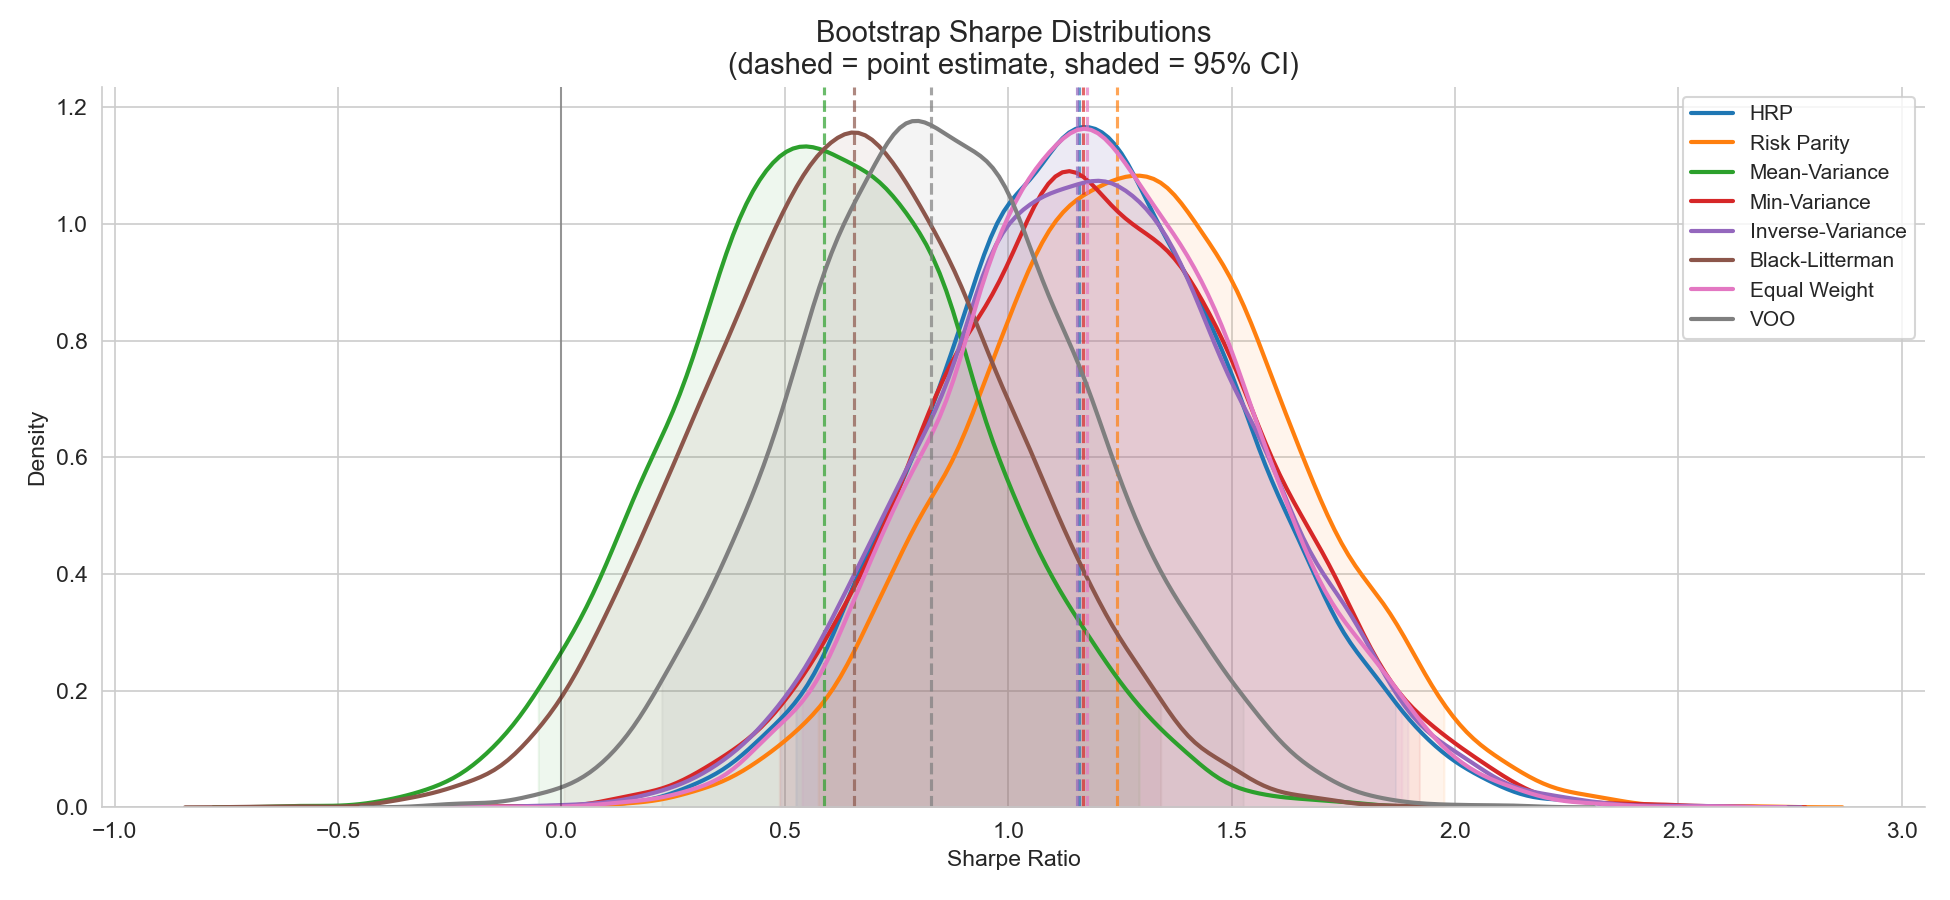
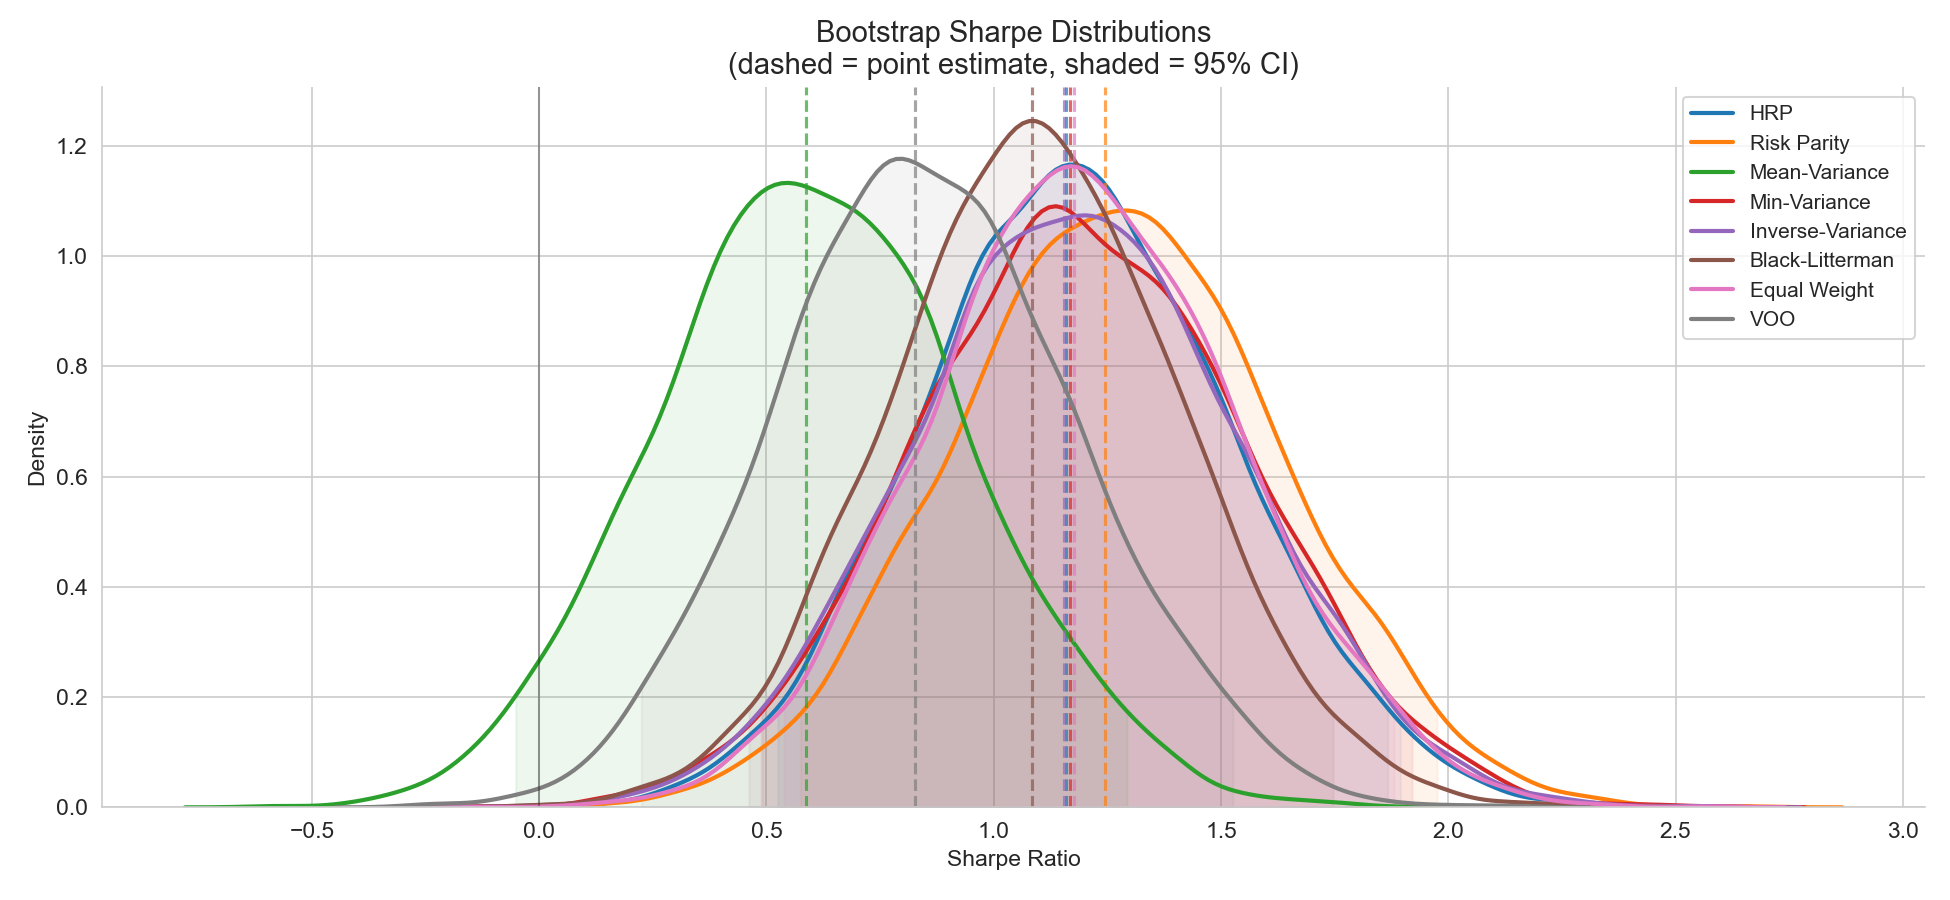
Added additional views to src/allocator/BL, modified notebooks/...w_BL.ipynb, modified readme.md

diff --git a/src/allocators/black_litterman.py b/src/allocators/black_litterman.py
@@ -40,7 +40,7 @@ def black_litterman_portfolio(
 
     # Get views
     closes = (1 + returns).cumprod()
-    Q_view_vector, P_view_matrix = get_views(closes=closes, view_lookback=view_lookback, K=K)
+    Q_view_vector, P_view_matrix = get_combined_views(closes=closes, returns=returns, view_lookback=view_lookback, K=K)
 
     # Get posteriors
     cov_BL, exp_returns_BL = BL_posterior(
@@ -140,7 +140,11 @@ def views_variance_easy(
 # Get views
 # # # # # # # #
 
-def get_views(closes: pd.DataFrame, view_lookback: int, K: int) -> tuple:
+def get_momentum_views(closes: pd.DataFrame, view_lookback: int, K: int) -> tuple:
+    '''
+    Input: DataFrame of close prices, momentum window, number of views
+    Output: Momentum based relatice views, pairing K best returns with K worst returns
+    '''
     trailing_ret = closes.pct_change(view_lookback).iloc[-1]
     trailing_vol = closes.pct_change().rolling(view_lookback).std().iloc[-1]
     momentum_score = trailing_ret / trailing_vol
@@ -161,6 +165,118 @@ def get_views(closes: pd.DataFrame, view_lookback: int, K: int) -> tuple:
         P_view_matrix[i, closes.columns.get_loc(bot)] = -1
         Q_view_vector[i] = (trailing_ret[top] - trailing_ret[bot]) / view_lookback
     
+    return Q_view_vector, P_view_matrix
+
+
+
+# # # # # # # # 
+# Additional views from Claude
+# # # # # # # #
+
+
+def get_mean_reversion_views(closes: pd.DataFrame, view_lookback: int, K: int) -> tuple:
+    '''
+    Mean-reversion views: bet that recent losers will outperform recent winners.
+    Opposite of momentum — pairs the K worst performers long against the K best short.
+    Works well in range-bound or post-crash recovery regimes.
+    '''
+    trailing_ret = closes.pct_change(view_lookback).iloc[-1]
+    trailing_vol = closes.pct_change().rolling(view_lookback).std().iloc[-1]
+    momentum_score = trailing_ret / trailing_vol
+
+    ranked = momentum_score.rank()
+    n = len(closes.columns)
+
+    top_K = ranked.nlargest(K).index   # recent winners → short leg
+    bot_K = ranked.nsmallest(K).index  # recent losers  → long leg
+
+    P_view_matrix = np.zeros((K, n))
+    Q_view_vector = np.zeros(K)
+
+    for i, (top, bot) in enumerate(zip(top_K, bot_K)):
+        # Flip vs momentum: long the loser, short the winner
+        P_view_matrix[i, closes.columns.get_loc(bot)] = 1
+        P_view_matrix[i, closes.columns.get_loc(top)] = -1
+        # Expect reversion proportional to the divergence
+        Q_view_vector[i] = (trailing_ret[top] - trailing_ret[bot]) / view_lookback
+
+    return Q_view_vector, P_view_matrix
+
+
+def get_low_vol_views(closes: pd.DataFrame, view_lookback: int, K: int) -> tuple:
+    '''
+    Low-volatility anomaly views: bet that low-vol assets outperform high-vol assets.
+    Motivated by the empirical observation that risk-adjusted returns are inversely
+    related to volatility (Baker et al., 2011; Frazzini & Pedersen, 2014).
+    '''
+    trailing_vol = closes.pct_change().rolling(view_lookback).std().iloc[-1]
+    trailing_ret = closes.pct_change(view_lookback).iloc[-1]
+
+    ranked = trailing_vol.rank()
+    n = len(closes.columns)
+
+    low_K = ranked.nsmallest(K).index   # lowest vol → long
+    high_K = ranked.nlargest(K).index   # highest vol → short
+
+    P_view_matrix = np.zeros((K, n))
+    Q_view_vector = np.zeros(K)
+
+    for i, (low, high) in enumerate(zip(low_K, high_K)):
+        P_view_matrix[i, closes.columns.get_loc(low)] = 1
+        P_view_matrix[i, closes.columns.get_loc(high)] = -1
+        # Scale view magnitude by the vol spread (daily units)
+        Q_view_vector[i] = (trailing_vol[high] - trailing_vol[low]) / np.sqrt(view_lookback)
+
+    return Q_view_vector, P_view_matrix
+
+
+def get_value_views(returns: pd.DataFrame, view_lookback: int, K: int) -> tuple:
+    '''
+    Simple value views using trailing Sharpe ratio as a proxy for "cheapness":
+    assets with high recent Sharpe are considered fairly priced, assets with low
+    (or negative) Sharpe are considered undervalued and expected to mean-revert.
+    Long the K lowest-Sharpe assets, short the K highest.
+    '''
+    trailing_ret = returns.iloc[-view_lookback:]
+    mean_ret = trailing_ret.mean()
+    vol = trailing_ret.std()
+    sharpe_score = mean_ret / vol
+
+    ranked = sharpe_score.rank()
+    n = len(returns.columns)
+
+    cheap_K = ranked.nsmallest(K).index     # low Sharpe → "undervalued" → long
+    rich_K = ranked.nlargest(K).index       # high Sharpe → "overvalued" → short
+
+    P_view_matrix = np.zeros((K, n))
+    Q_view_vector = np.zeros(K)
+
+    for i, (cheap, rich) in enumerate(zip(cheap_K, rich_K)):
+        P_view_matrix[i, returns.columns.get_loc(cheap)] = 1
+        P_view_matrix[i, returns.columns.get_loc(rich)] = -1
+        # Expect convergence proportional to the Sharpe gap
+        Q_view_vector[i] = abs(mean_ret[rich] - mean_ret[cheap])
+
+    return Q_view_vector, P_view_matrix
+
+
+# # # # # # # # 
+# Join all views
+# # # # # # # #
+
+def get_combined_views(closes: pd.DataFrame, returns: pd.DataFrame, view_lookback: int, K: int) -> tuple:
+    '''
+    Combine momentum, mean-reversion, low-vol, and value views into a single view set.
+    Returns stacked P (4K x N) and Q (4K x 1).
+    '''
+    Q_mom, P_mom = get_momentum_views(closes, view_lookback, K)
+    Q_rev, P_rev = get_mean_reversion_views(closes, view_lookback, K)
+    Q_vol, P_vol = get_low_vol_views(closes, view_lookback, K)
+    Q_val, P_val = get_value_views(returns, view_lookback, K)
+
+    Q_view_vector = np.concatenate([Q_mom, Q_rev, Q_vol, Q_val])
+    P_view_matrix = np.vstack([P_mom, P_rev, P_vol, P_val])
+
     return Q_view_vector, P_view_matrix
 
 # %%

diff --git a/readme.md b/readme.md
@@ -56,32 +56,46 @@ Potentially indicates that risk-parity is advantageous for risk averse personal 
 
 ## Black-Litterman Extension
 
-A Black-Litterman (BL) allocator with a basic momentum-based views was added to the comparison. The implementation follows Meucci (2010) with the proportional Ω heuristic from Idzorek (2005). At each monthly rebalance, K=6 relative views are generated by pairing the top-K and bottom-K assets ranked by 120-day risk-adjusted momentum (trailing return / trailing volatility). The prior is an equal-weight equilibrium (π = 2λΣw_eq), with τ = 1/120 and diagonal Ω = τ·P·Σ·Pᵀ.
+A Black-Litterman (BL) allocator was added to the comparison, following Meucci (2010) with the proportional Ω heuristic from Idzorek (2005). The prior is an equal-weight equilibrium (π = 2λΣw_eq) with τ = 1/120 ≈ 0.008 (tight prior). At each monthly rebalance, four sets of K=6 relative views are generated from the trailing 120-day window and stacked into a single 24-view system:
+
+- **Momentum:** top-K vs bottom-K by risk-adjusted momentum
+- **Mean-reversion:** bottom-K vs top-K (opposite of momentum)
+- **Low-volatility anomaly:** K-lowest-vol vs K-highest-vol assets (Baker et al., 2011)
+- **Value (Sharpe-based):** k lowest trailing Sharpe vs K highest
+
+Momentum and mean-reversion produce partially cancelling signals by design. When they disagree, the opposing views cancel through Ω-weighted averaging, pulling the posterior back toward the equal-weight prior. When low-vol and value views agree with one direction, BL tilts modestly.
+These opposing views serve to self-regularise the weights.
 
 ### BL Backtest Results
 
-Black-Litterman achieves a raw annual return of (0.213), on par with risk-parity (0.210) but lower than HRP (0.240) and equal weight (0.244), but at the cost of substantially higher volatility (0.453) and the deepest max drawdown (−0.606) of any method. Its Sharpe ratio of 0.656 is below VOO (0.83) and the risk-parity cluster (1.15–1.24).
+With combined views, BL achieves an annual return of 0.196 at 0.18 volatility, producing a Sharpe ratio of 1.09 — in the same regime as Inverse-Variance (1.15) and Min-Variance (1.17). Further, BL achieves the shallowest max drawdown of any method at -.213, giving it the best Calmar ratio (0.92) in the comparison.
 
-BL's turnover of 13× annualised is the highest of all methods, exceeding even Mean-Variance (11.1×), likely a consequence of the momentum signal frequently changing: BL concentrates heavily into recent winners, then must substantially rebalance when rankings shift.
+This is a substantial improvement over the earlier momentum-only BL baseline (Sharpe 0.66, max DD −0.6), demonstrating that more views (and view diversification) are key for BL performance.
+
+BL's turnover of 12.5× annualised remains the highest of all methods, driven by the four view types updating independently at each rebalance.
 
 ![Out-of-sample cumulative returns with BL](results/oos_backtest_comparison_w_BL.png)
 
 ### Statistical Significance of BL
 
-BL's bootstrap Sharpe CI is wide (0.005 to 1.34), and its Sharpe difference CI vs VOO contains zero (−0.811 to +0.415) with a win percentage of just 0.279 — statistically indistinguishable from the benchmark. Its DSR of 0.688 falls well below the 0.95 significance threshold. In contrast, Risk Parity (DSR 0.985), Equal Weight (0.978), and HRP (0.974) all remain statistically significant.
+BL's bootstrap Sharpe is 1.085 with a CI of (0.46 to 1.75), and its mean Sharpe difference vs VOO is 0.24 with a CI of (−0.43 to +0.87), an improvement over the purely-momentum-based-views approach, but still containing 0 --i.e. not statistically different to VOO at the 0.95 confidence level. 
+
+Note also the win percentage of 0.769 against VOO as well as the statistically significant DSR of 0.965.
+
+Risk Parity (DSR 0.985), Equal Weight (0.978), and HRP (0.974) remain the only methods with statistically significant outperformance of VOO.
 
 ![Bootstrap Sharpe distributions with BL](results/bootstrap_sharpe_comparison_w_BL.png)
 
 ### Interpretation
 
-Black-Litterman portfolio optimization is only as good as its views. 
+Combining opposing view types (momentum + mean-reversion) with factor-based views (low-vol + value) transforms BL from an aggressive momentum chaser into a moderate, drawdown-resilient allocator. The tight prior (τ = 0.008) ensures the posterior stays close to equal weight unless multiple signals agree, which prevents the extreme concentration seen with single-signal BL.
 
-The current basic mommentum-based views on 6month lookbacks produce very aggressive shifts in the weights and amplify both wins and losses. 
-Need to implement with better views to beat VOO and other risk parity methods.
+The main trade-off is turnover: BL trades far more than risk-parity methods for comparable Sharpe performance. For drawdown-sensitive investors willing to accept higher trading costs, BL with combined views is the strongest option in this comparison. For most investors, Risk Parity and Equal Weight remain the simpler and statistically safer choice.
 
-The view calibration has significant room for improvement: shrinking Q toward zero, using Idzorek's confidence-based Ω calibration, or switching to mean-reversion or factor-based views would reduce concentration and turnover. The current implementation serves as a baseline demonstrating BL mechanics within the backtest framework, not as a recommended allocation strategy.
+Next steps: Idzorek (2005) confidence-based Ω calibration, turnover constraints in the optimizer, and factor-model views (Fama-French residuals) as an alternative to trailing-return signals.
 
 ---
 
 > See `notebooks/method_comparison_w_BL.ipynb` for full BL results and methodology.
+
 